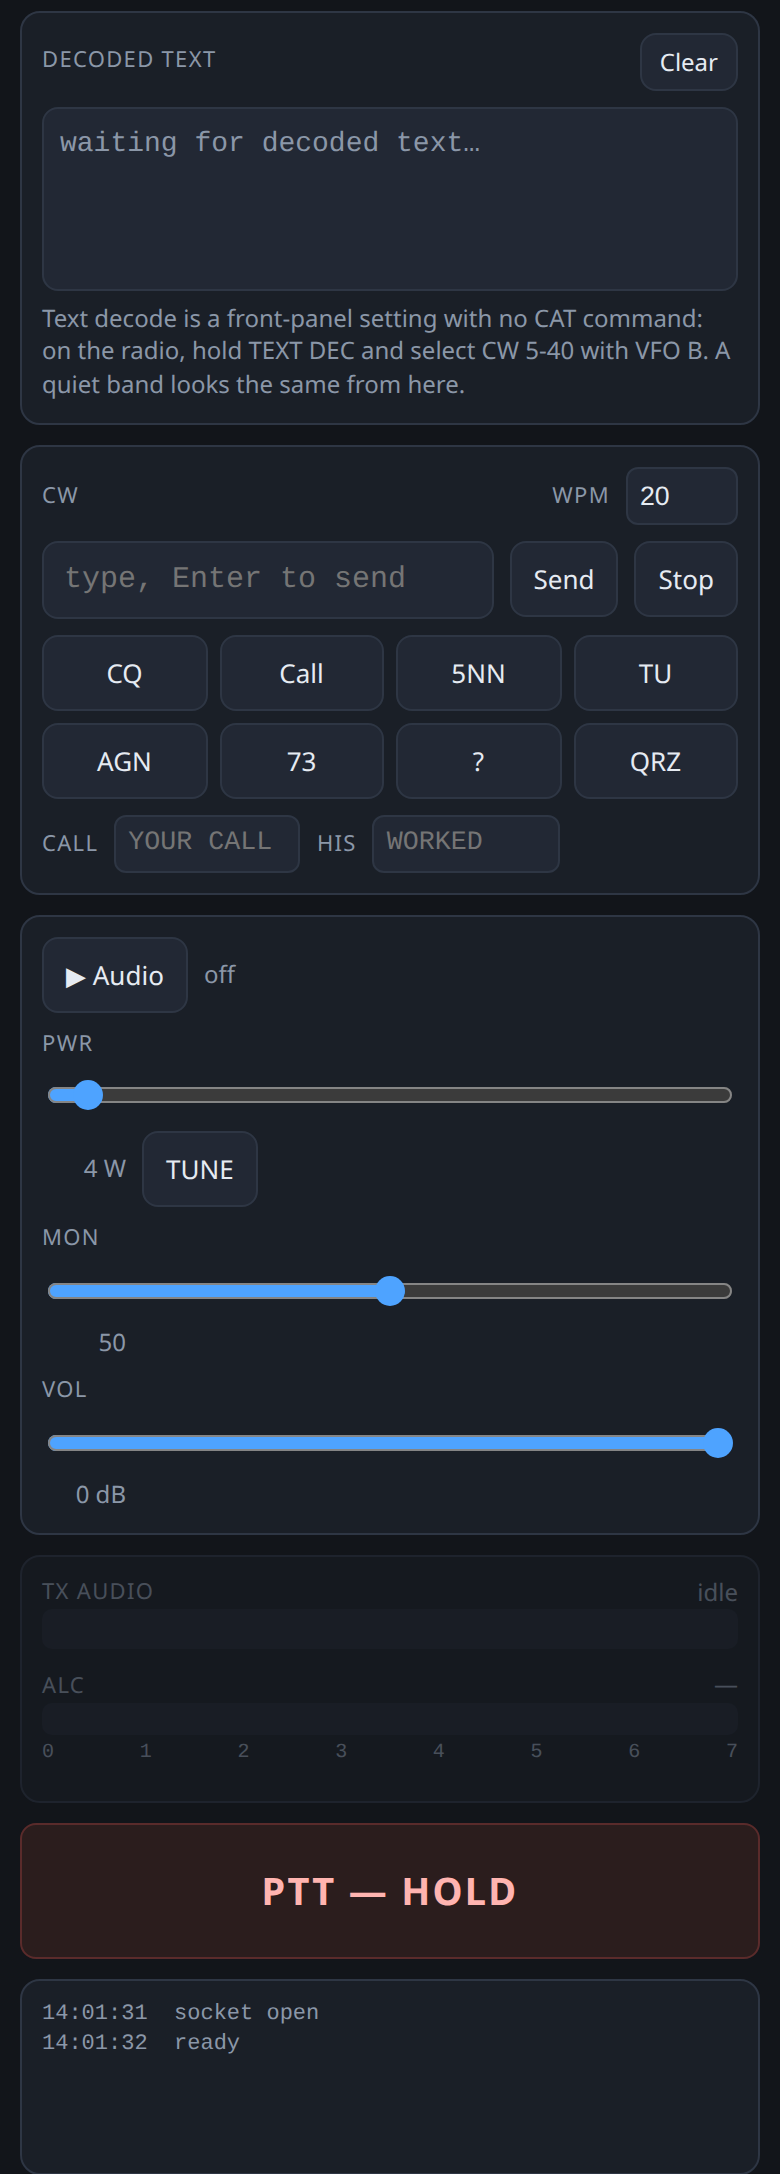
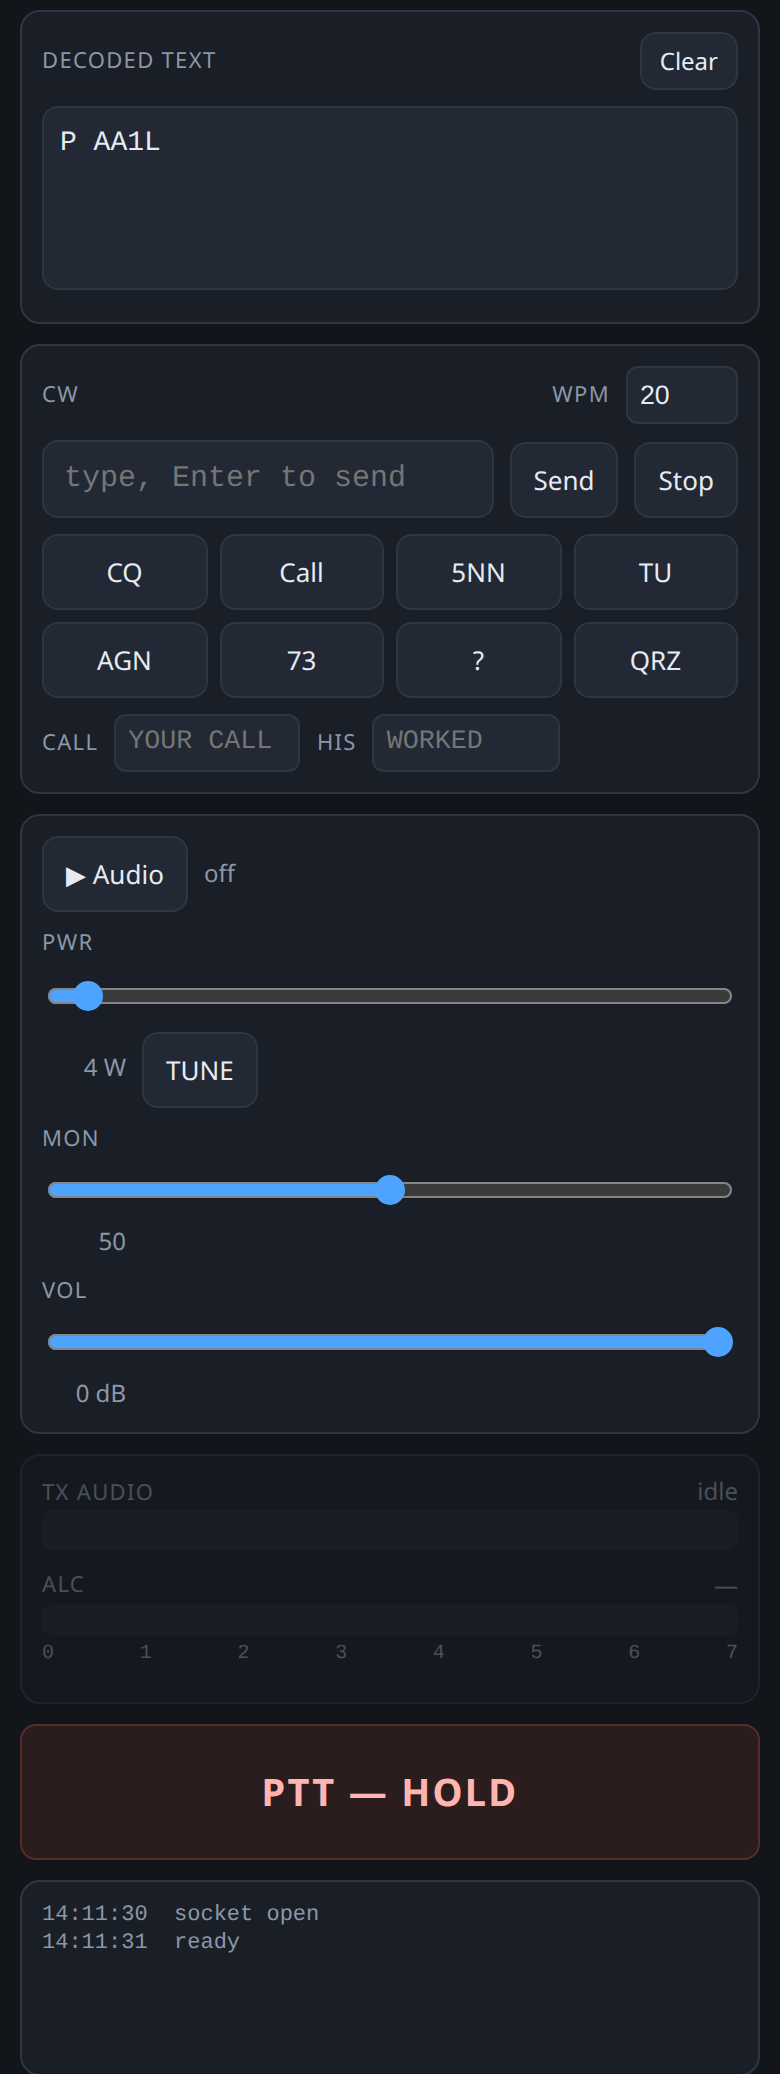
Add a SHIFT slider under the width slider
SHIFT is IS, the AF centre of the passband, in the radio's own terms,
with a NORM button for IS 9999. It is the bridge's own if_shift because
TCI's edges are always symmetric in CW and cannot carry a shift; it goes
out with every rx_filter_band. Ranges are the measured clamps: CW
100-1050 with NORM at the pitch, USB 400-2600 at 2.4k. Disabled in AM
and FM, which were not measured. Width and SQL now sit on one line like
SHIFT. Screenshots retaken.

diff --git a/bridge/ui.html b/bridge/ui.html
@@ -170,8 +170,14 @@ input[type=range]{width:100%; accent-color:var(--accent)}
   <div class="steps" id="filters"></div>
   <div class="row" style="margin-top:8px">
     <span class="lbl" style="min-width:3.2em">Width</span>
-    <input type="range" id="bw" min="50" max="2800" step="50" value="400">
+    <input type="range" id="bw" min="50" max="2800" step="50" value="400" style="flex:1;width:auto">
     <span class="sub" id="bwv" style="min-width:3.5em;text-align:right">—</span>
+  </div>
+  <div class="row" style="margin-top:8px">
+    <span class="lbl" style="min-width:3.2em">Shift</span>
+    <input type="range" id="shift" min="100" max="1050" step="10" value="590" style="flex:1;width:auto">
+    <span class="sub" id="shiftv" style="min-width:3.5em;text-align:right">—</span>
+    <button id="shiftnorm" style="padding:5px 9px;font-size:12px" title="Re-centre the passband, as NORM does on the radio">NORM</button>
   </div>
   <div class="row" style="margin-top:8px">
     <button id="split">SPLIT</button>
@@ -192,7 +198,7 @@ input[type=range]{width:100%; accent-color:var(--accent)}
   <div id="nbhint"></div>
   <div class="row" style="margin-top:8px">
     <span class="lbl" style="min-width:3.2em">SQL</span>
-    <input type="range" id="sql" min="0" max="29" value="0">
+    <input type="range" id="sql" min="0" max="29" value="0" style="flex:1;width:auto">
     <span class="sub" id="sqlv" style="min-width:3.5em;text-align:right">open</span>
   </div>
   <div id="ritrow">
@@ -405,6 +411,7 @@ function onText(msg){
     case "attenuator":  S.att = args[1] === "true"; paintRx(); break;
     case "rx_nb_enable": S.nb = args[1] === "true"; paintRx(); break;
     case "rx_nr_enable": S.nr = args[1] === "true"; paintRx(); break;
+    case "if_shift":    S.ifc = +args[1] || 0; paintShift(); break;
     case "xfil":        S.xfil = +args[1] || 0; S.xfilHz = +args[2] || 0; paintRx(); break;
     case "notch":       S.notch = args[1] || "off"; paintRx(); break;
     case "nb_levels":   S.nbLevels = [+args[1] || 0, +args[2] || 0]; paintRx(); break;
@@ -840,7 +847,31 @@ function paintFilters(){
   const w = S.fhi - S.flo;
   $("#bwnow").textContent = w > 0 ? `${(w/1000).toFixed(w < 1000 ? 2 : 1)} kHz` : "";
   paintWidth();
+  paintShift();
 }
+
+// ── SHIFT slider: the SHIFT knob ──────────────────────────────────────────
+// The AF centre of the passband in Hz (the bridge's if_shift, i.e. IS),
+// the figure the radio itself shows while SHIFT turns. Ranges are what the
+// radio accepted (measured): CW 100-1050, with NORM at the PITCH; USB with
+// a 2.4k filter 400-2600, NORM 1500 -- it clamps tighter as the filter
+// widens, and the read-back puts the slider where it really landed. AM and
+// FM straddle the carrier and were not measured, so SHIFT sits out there.
+const SHIFT_RANGE = { cw:[100, 1050], ssb:[200, 2800] };
+let shiftDragging = false;
+function paintShift(){
+  const el = $("#shift"), cw = filterSet() === FILTERS.cw;
+  const off = filterSet() === FILTERS.am;
+  el.disabled = off; $("#shiftnorm").disabled = off;
+  const [lo, hi] = cw ? SHIFT_RANGE.cw : SHIFT_RANGE.ssb;
+  el.min = lo; el.max = hi;
+  if (shiftDragging) return;
+  if (off){ $("#shiftv").textContent = "—"; return; }
+  if (S.ifc > 0){ el.value = S.ifc; $("#shiftv").textContent = S.ifc + " Hz"; }
+}
+$("#shift").oninput = e => { shiftDragging = true; $("#shiftv").textContent = e.target.value + " Hz"; };
+$("#shift").onchange = e => { shiftDragging = false; send(`if_shift:0,${e.target.value}`); };
+$("#shiftnorm").onclick = () => send("if_shift:0,norm");
 
 // ── width slider: the WIDTH knob ──────────────────────────────────────────
 // Sets the DSP bandwidth (BW) and leaves the passband centre where it is,
@@ -853,7 +884,7 @@ function widthRange(){
   return filterSet() === FILTERS.cw ? BW_MAX.cw
        : filterSet() === FILTERS.am ? BW_MAX.am : BW_MAX.ssb;
 }
-function fmtHz(w){ return w >= 1000 ? (w/1000).toFixed(2).replace(/0$/, "") + "k" : String(w); }
+function fmtHz(w){ return w >= 1000 ? (w/1000).toFixed(2).replace(/0$/, "") + " kHz" : w + " Hz"; }
 function paintWidth(){
   const el = $("#bw"); el.max = widthRange();
   if (bwDragging) return;                       // not under the finger

diff --git a/bridge/tci.py b/bridge/tci.py
@@ -158,6 +158,7 @@ class RadioState:
         # Passband edges in Hz relative to the carrier, as TCI states them.
         self.filter_lo = -1500
         self.filter_hi = 1500
+        self.if_centre = 0          # IS: AF centre of the passband, Hz
         # TCI master volume, in dB on the wire (-60..0). Applied in software
         # to the audio frames -- see audio.rx_frame.
         self.volume_db = 0
@@ -282,6 +283,7 @@ class Bridge:
         if is_ and is_.startswith("IS ") and len(is_) >= 8:
             try:
                 centre = int(is_[3:7])
+                self.state.if_centre = centre
             except ValueError:
                 pass
         half = width // 2
@@ -368,7 +370,7 @@ class Bridge:
             f"vfo:0,0,{s.vfo_a}",
             f"vfo:0,1,{s.vfo_b}",
             f"modulation:0,{s.mode}",
-            f"rx_filter_band:0,{s.filter_lo},{s.filter_hi}",
+            *self.filter_notifications(),
             f"rx_enable:0,true",
             f"split_enable:0,{bool_str(s.split)}",
             f"rit_enable:0,{bool_str(s.rit_on)}",
@@ -505,7 +507,7 @@ class Bridge:
         self.refresh_filter()
         s = self.state
         return [], [f"vfo:0,0,{s.vfo_a}", f"modulation:0,{s.mode}",
-                    f"rx_filter_band:0,{s.filter_lo},{s.filter_hi}"]
+                    *self.filter_notifications()]
 
     # -- modulation -------------------------------------------------------
 
@@ -538,7 +540,7 @@ class Bridge:
             self.refresh_filter()
             s = self.state
             return [], [f"modulation:0,{s.mode}",
-                        f"rx_filter_band:0,{s.filter_lo},{s.filter_hi}"]
+                        *self.filter_notifications()]
         return [f"modulation:0,{self.state.mode}"], []
 
     # -- trx (PTT) --------------------------------------------------------
@@ -1252,9 +1254,39 @@ class Bridge:
             # what the radio accepted, never what was asked for.
             self.refresh_filter()
             s = self.state
-            return [], [f"rx_filter_band:0,{s.filter_lo},{s.filter_hi}"]
+            return [], [*self.filter_notifications()]
         s = self.state
-        return [f"rx_filter_band:0,{s.filter_lo},{s.filter_hi}"], []
+        return [*self.filter_notifications()], []
+
+    def filter_notifications(self) -> list[str]:
+        """The passband, and SHIFT alongside it: TCI's carrier-relative edges
+        cannot say where a CW passband sits (see refresh_filter), so the AF
+        centre goes out as well, as the bridge's own `if_shift`."""
+        s = self.state
+        return [f"rx_filter_band:0,{s.filter_lo},{s.filter_hi}",
+                f"if_shift:0,{s.if_centre}"]
+
+    # -- SHIFT (the bridge's own) ------------------------------------------
+    # `if_shift:0,<Hz>` sets IS, the AF centre of the passband -- the value
+    # the K3 shows while SHIFT is turned. `if_shift:0,norm` re-centres it
+    # (IS 9999, the reference's "center the passband"), which is what NORM
+    # does on the radio. The radio clamps per mode and PITCH; what it
+    # accepted is read back and broadcast.
+
+    def _cmd_if_shift(self, args):
+        if len(args) >= 2:
+            if args[1].lower() == "norm":
+                hz = 9999
+            else:
+                try:
+                    hz = max(0, min(9998, int(float(args[1]))))
+                except ValueError:
+                    return [], []
+            self.cat.send(f"IS {hz:04d}")     # the space is part of it
+            time.sleep(0.12)
+            self.refresh_filter()
+            return [], self.filter_notifications()
+        return self.filter_notifications(), []
 
     def _cmd_rx_sensors_enable(self, args):
         """WSJT-X sends "rx_sensors_enable:false,500" on connect. We do not
@@ -1510,7 +1542,7 @@ class Bridge:
         self.refresh_filter()
         s = self.state
         return [], [self.xfil_notification(),
-                    f"rx_filter_band:0,{s.filter_lo},{s.filter_hi}"]
+                    *self.filter_notifications()]
 
     def _cmd_nr_tap(self, args):
         return self._tap(34)

diff --git a/k3-tci-command-map.md b/k3-tci-command-map.md
@@ -478,6 +478,7 @@ slow and cite the caution above.
 | `rx_nb_enable:0,<bool>` | `NB1;` / `NB0;` | `NB;` | — | `NB0` overrides any non-zero `NL`; and `NB1` with `NL0000` blanks nothing, so the bridge also broadcasts `nb_levels` |
 | `preamp:0,<bool>` (bridge's own) | `PA1;` / `PA0;` | `PA;` | — | Reported on band change and by AI2 |
 | `attenuator:0,<bool>` (bridge's own) | `RA01;` / `RA00;` | `RA;` | — | One 10 dB pad on this K3 |
+| `if_shift:0,<Hz>` / `if_shift:0,norm` (bridge's own) | `IS <4 digits>;` / `IS 9999;` | `IS;` | Hz, the AF centre | SHIFT, in the radio's own terms. Broadcast with every `rx_filter_band`, because in CW the TCI edges are always `±half` and cannot show a shift. Measured clamps: CW 100-1050, NORM = PITCH (590 here); USB with 2.4k width 400-2600, NORM 1500, the edges moving with it (400 → -800..1600). AM/FM not measured; the web UI disables SHIFT there |
 | `xfil_tap:0` (bridge's own) | `SWT29;` | `XF;`, then `BW;`/`IS;` | `XFn` = FL1-FL5 | Broadcast as `xfil:0,<n>,<Hz>` plus `rx_filter_band`; the width is from `tci.XFIL_WIDTHS` (this station: FL3 2.7k, FL4 500, FL5 250), because CAT cannot report what is fitted. **Each crystal resets the DSP width to suit itself** (measured in CW: FL4 400 Hz → FL5 250 → FL3 2700 → FL4 500, not back to 400). In CW the tap cycles FL4 → FL5 → FL3 only. AI2 reports no `XF`; the reconcile sweep reads it. **The reverse holds too: a `BW` change picks the narrowest crystal at least as wide** (measured in CW: 2700 and 1000 → FL3; 500, 400, 300 → FL4; 250, 100 → FL5), so the web UI's width slider drives the crystal and XFIL is an override |
 | `nr_tap:0` / `notch_tap:0` (bridge's own) | `SWT34;` / `SWT32;` | `DS;` byte `f` | — | No NR or notch command exists, so these press the switch; the result is read back and broadcast as `rx_nr_enable` (TCI's) and `notch:0,off\|auto\|manual` (the bridge's own). AI2 reports neither, so front-panel presses arrive via the 3 s reconcile sweep. Refused while transmitting |
 | `rx_nb_param:0,0,<0-100>` | `NL<dd><ii>;` | `NL;` | scale to 00-21 each | `dd` = DSP NB level, `ii` = IF NB level |
